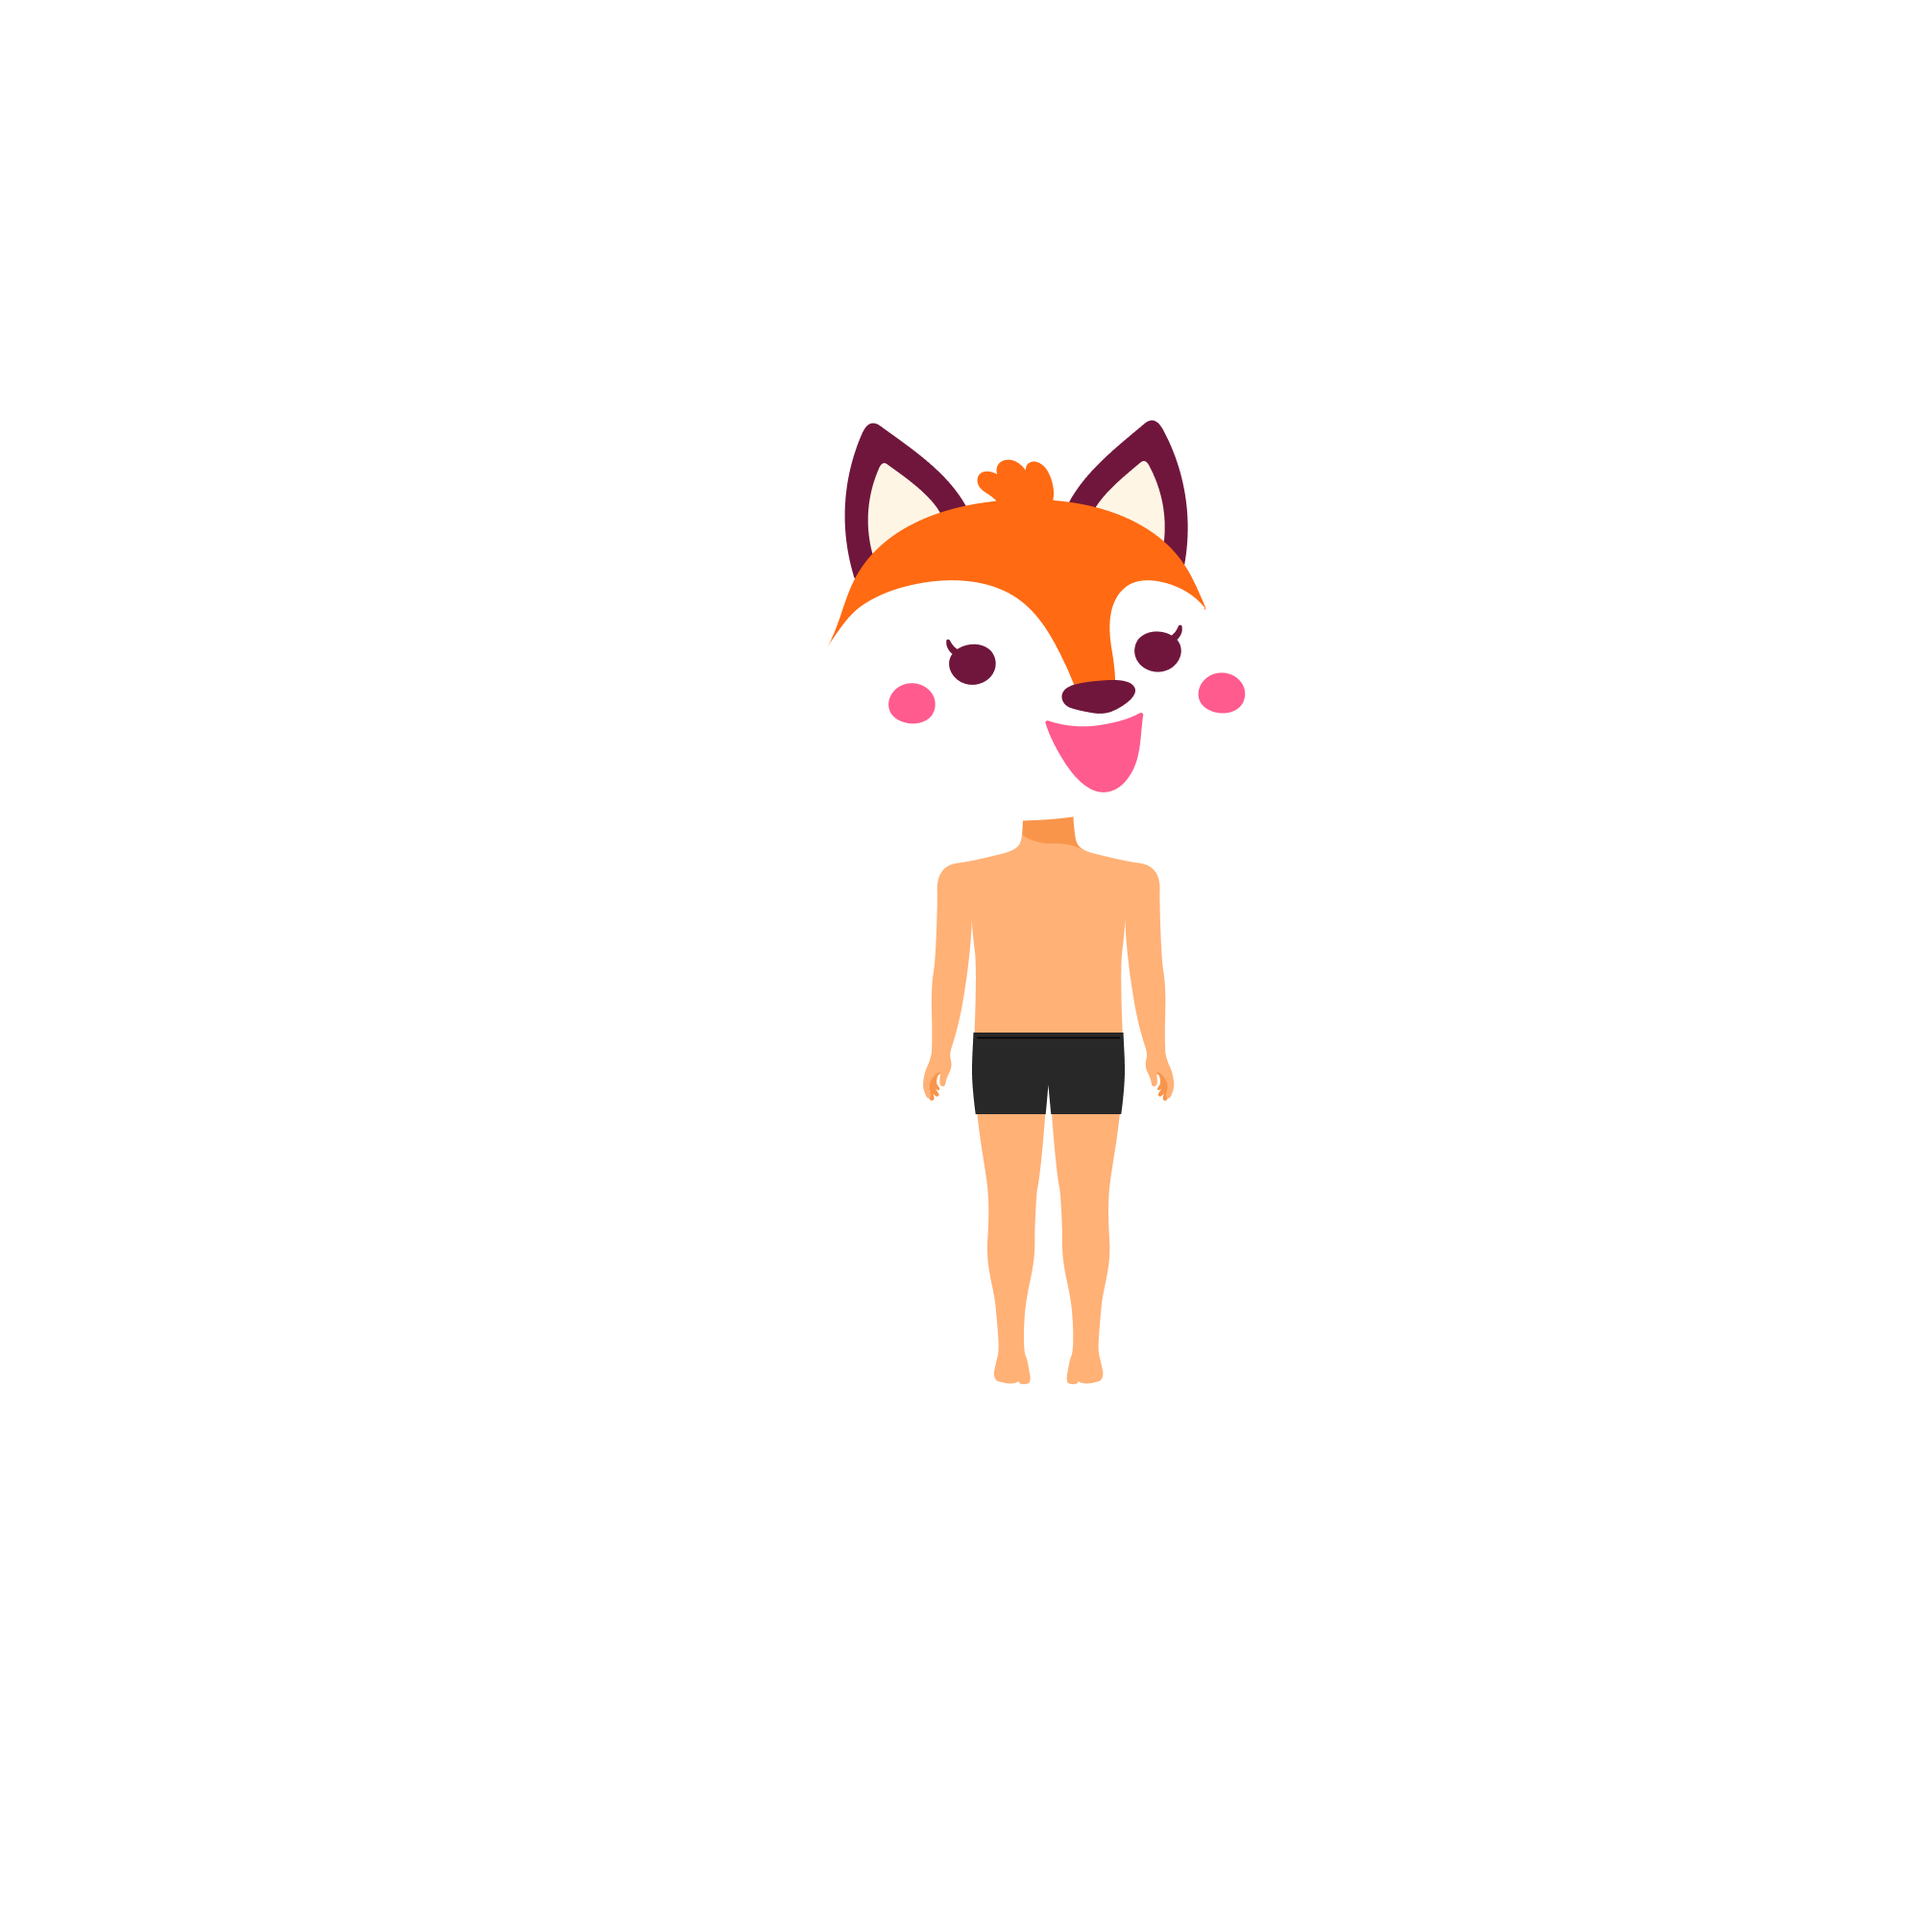
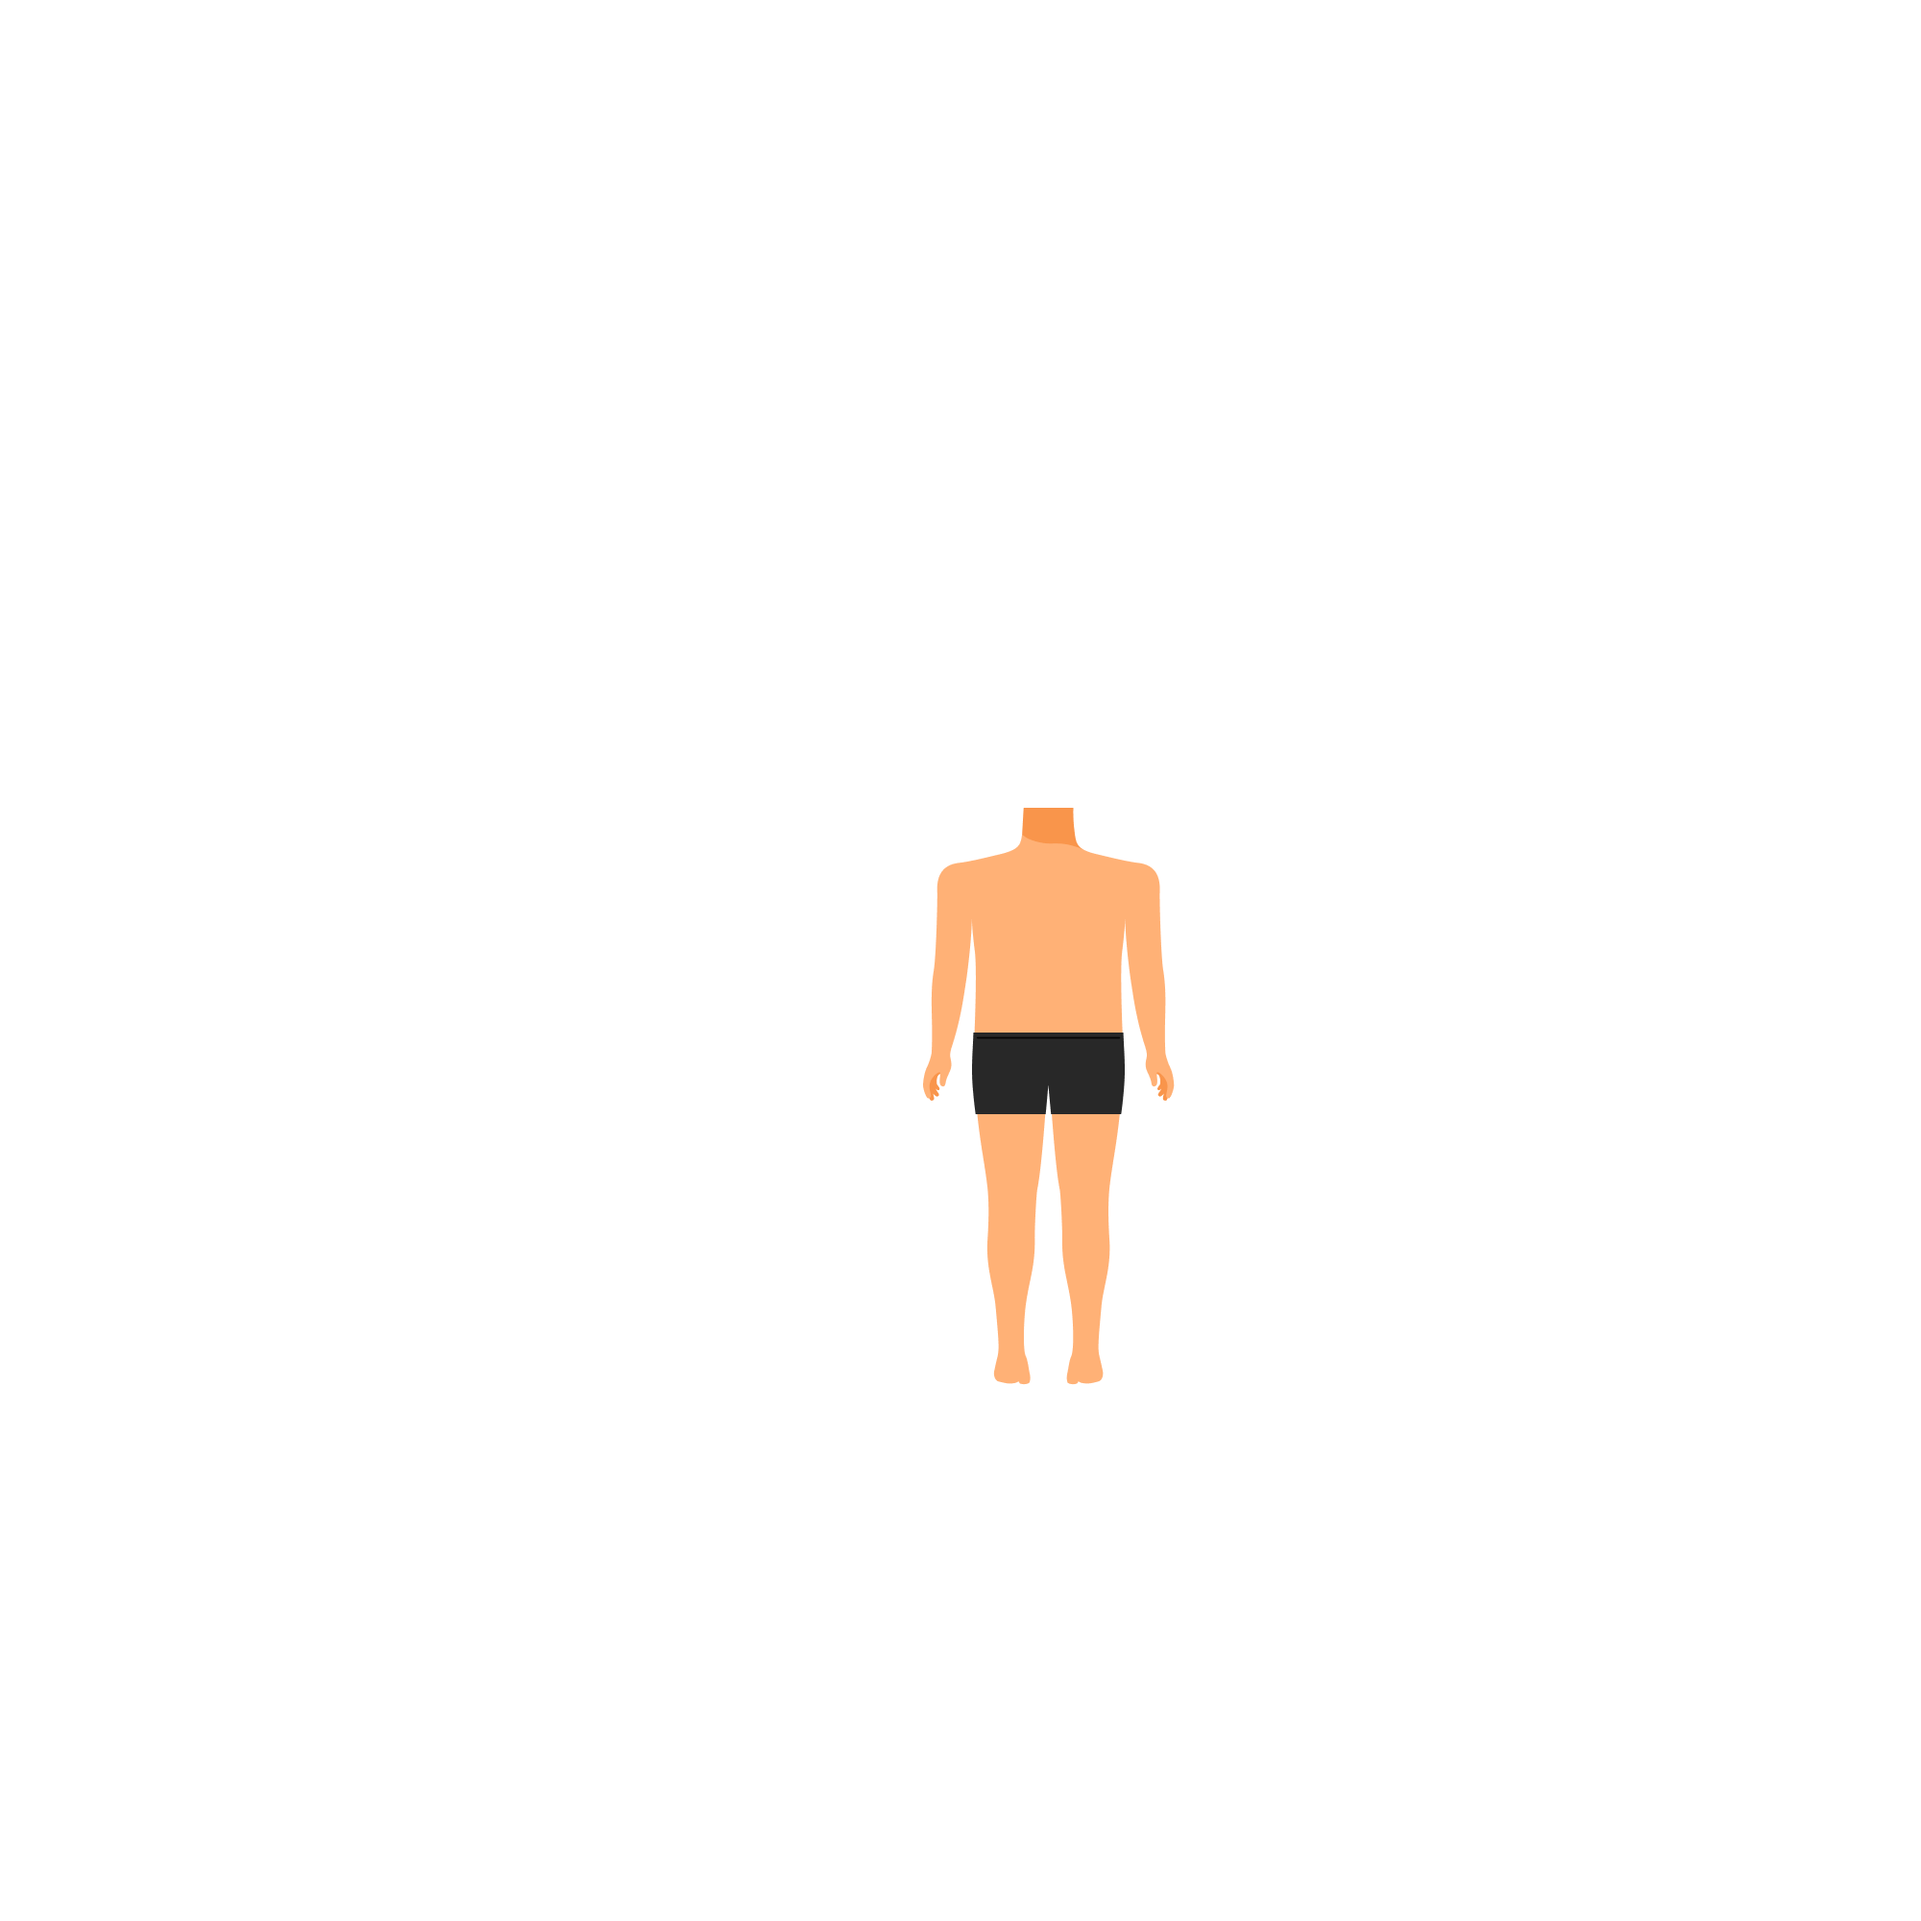
patch5

Changed region(s): [[0.434, 0.217, 0.651, 0.434]]

diff --git a/app/(tabs)/index.tsx b/app/(tabs)/index.tsx
@@ -1,11 +1,23 @@
-import { StyleSheet, Alert, Image, TouchableOpacity, Dimensions } from 'react-native';
+import { StyleSheet, Alert, Image, TouchableOpacity, Dimensions, DeviceEventEmitter } from 'react-native';
 import { useEffect, useState } from 'react';
 import { Text, View } from '@/components/Themed';
 import axios from 'axios';
+import AsyncStorage from '@react-native-async-storage/async-storage'; // Import AsyncStorage
 import * as Location from 'expo-location';
+import { useAppContext } from '@/app/AppContext'; // Import the context
+
 
 // Get screen dimensions
 const { width: screenWidth } = Dimensions.get('window');
+
+
+
+// Body Images
+import defaultFrame from '@/assets/images/fox/foxBody.png';
+import customBody1 from '@/assets/images/owl/owlBody.png';
+import customBody2 from '@/assets/images/bear/bearBody.png';
+import customBody3 from '@/assets/images/deer/deerBody.png';
+import body from '@/assets/images/fox/body.png'
 
 // Head
 import winterHat from '@/assets/images/fox/head/winterHat.png';
@@ -15,10 +27,10 @@ import sunGlasses from '@/assets/images/fox/head/sunGlasses.png';
 import blankHead from '@/assets/images/fox/head/blankHeadwear.png';
 
 // Background
-import defaultFrame from '@/assets/images/fox/body.png';
 import greenGround from '@/assets/images/fox/background/greenGround.png';
 import drowningWater from '@/assets/images/fox/background/drowningWater.png';
 import sunShine from '@/assets/images/fox/background/lilSunshine.png';
+import moon from '@/assets/images/fox/background/moon.png';
 import water from '@/assets/images/fox/background/water.png';
 import snow from '@/assets/images/fox/background/snow.png';
 import fallingSnow from '@/assets/images/fox/background/fallingSnow.png';
@@ -68,10 +80,35 @@ export default function TabOneScreen() {
     sunrise: null,
     sunset: null,
   });
+  const [selectedBody, setSelectedBody] = useState<string>('defaultFrame'); // Add selectedBody state
   const [location, setLocation] = useState<Location.LocationObjectCoords | null>(null);
   const [errorMsg, setErrorMsg] = useState<string | null>(null);
 
   const apiKey = process.env.EXPO_PUBLIC_OPENWEATHER_API_KEY;
+
+
+
+  // Load selected body image from AsyncStorage when component mounts
+  useEffect(() => {
+    const loadSettings = async () => {
+      const savedBody = await AsyncStorage.getItem('selectedBody');
+      if (savedBody) {
+        setSelectedBody(savedBody);
+      }
+    };
+    loadSettings();
+
+    // Listen for changes in body image
+    const listener = DeviceEventEmitter.addListener('bodyChanged', (newBody: string) => {
+      setSelectedBody(newBody); // Update the body image state
+    });
+
+    return () => {
+      listener.remove(); // Cleanup the listener when component unmounts
+    };
+  }, []);
+
+
 
   const fetchWeatherData = async () => {
     if (location && apiKey) {
@@ -152,9 +189,39 @@ export default function TabOneScreen() {
     return '#000000'; // Default text color
   };
   
+  // Function to dynamically select the body image
+  const getBodyImage = () => {
+    if (selectedBody === 'customBody1') {
+      return customBody1;
+    } else if (selectedBody === 'customBody2') {
+      return customBody2;
+    }else if (selectedBody === 'customBody3') {
+      return customBody3;
+    }
+    return defaultFrame;
+  };
+
+  
+  //get the correct sky
+  const getSky = () => {
+    const currentTime = getCurrentTime(); // Get current time in Unix format
+    const { sunrise, sunset } = weather;
+  
+    if (sunrise && sunset) {
+      if (currentTime < sunrise || currentTime > sunset) {
+        return moon; // Nighttime
+      } else {
+        return sunShine; // Daytime
+      }
+    }
+  
+    return sunShine; // Default to sun if no data
+  };
+
+
   // Function to choose the background based on the weather
   const getBackgroundImage = () => {
-    if (weather.main === 'Clear') return [sunShine];
+    if (weather.main === 'Clear') return [blankHead];
     if (weather.main === 'Clouds') return [clouds];
     if (weather.main === 'Mist') return [clouds];
     if (weather.main === 'Haze') return [clouds];
@@ -241,6 +308,8 @@ export default function TabOneScreen() {
         <>
           <Text style={[styles.title, { color: getTextColor() }]}>{weather.main}</Text>
           <>
+          <Image source={getSky()} style={styles.responsiveImage} />
+
           {/* Map through background images */}
           {getBackgroundImage().map((bg, index) => (
             <Image key={index} source={bg} style={styles.background} />
@@ -249,11 +318,8 @@ export default function TabOneScreen() {
             <Image key={index} source={bg} style={styles.ground} />
           ))}
 
-          <Image source={defaultFrame} style={styles.responsiveImage} /> 
-          {getHeadwear() && getHeadwear().map((headItem, index) => (
-            <Image key={index} source={headItem} style={styles.responsiveImage} />
-          ))}
-
+<Image source={require('@/assets/images/fox/body.png')} style={styles.responsiveImage} />
+          
           {getChestWear().map((chestItem, index) => (
             <Image key={index} source={chestItem} style={styles.responsiveImage} />
           ))}
@@ -261,7 +327,12 @@ export default function TabOneScreen() {
           {getAccessories().map((accessoryItem, index) => (
             <Image key={index} source={accessoryItem} style={styles.responsiveImage} />
           ))}
-
+          
+                {/* Render body image based on selectedBody */}
+                <Image source={getBodyImage()} style={styles.responsiveImage} />
+          {getHeadwear() && getHeadwear().map((headItem, index) => (
+            <Image key={index} source={headItem} style={styles.responsiveImage} />
+          ))}
           {getLeggings().map((legItem, index) => (
             <Image key={index} source={legItem} style={styles.responsiveImage} />
           ))}

diff --git a/app/(tabs)/two.tsx b/app/(tabs)/two.tsx
@@ -1,14 +1,54 @@
-import { StyleSheet } from 'react-native';
-
-import EditScreenInfo from '@/components/EditScreenInfo';
+import { StyleSheet, TouchableOpacity, DeviceEventEmitter } from 'react-native'; // Import DeviceEventEmitter
+import { useState, useEffect } from 'react';
 import { Text, View } from '@/components/Themed';
+import { Picker } from '@react-native-picker/picker';
+import AsyncStorage from '@react-native-async-storage/async-storage'; // Import AsyncStorage
 
 export default function TabTwoScreen() {
+  const [selectedBody, setSelectedBody] = useState<string>('defaultFrame');
+
+  // Load the saved body image from AsyncStorage when the component mounts
+  useEffect(() => {
+    const loadSettings = async () => {
+      const savedBody = await AsyncStorage.getItem('selectedBody');
+      if (savedBody) {
+        setSelectedBody(savedBody);
+      }
+    };
+
+    loadSettings();
+  }, []);
+
+  const handleSaveSettings = async () => {
+    await AsyncStorage.setItem('selectedBody', selectedBody); // Save the state to AsyncStorage
+
+    // Emit an event when settings are saved
+    DeviceEventEmitter.emit('bodyChanged', selectedBody);
+  };
+
   return (
     <View style={styles.container}>
-      <Text style={styles.title}>Tab Two</Text>
+      <Text style={styles.title}>Settings</Text>
       <View style={styles.separator} lightColor="#eee" darkColor="rgba(255,255,255,0.1)" />
-      <EditScreenInfo path="app/(tabs)/two.tsx" />
+
+      {/* Body image selection */}
+      <View style={styles.settingRow}>
+        <Text style={styles.settingLabel}>Choose your character</Text>
+        <Picker
+          selectedValue={selectedBody}
+          style={styles.picker}
+          onValueChange={(itemValue: string) => setSelectedBody(itemValue)}
+        >
+          <Picker.Item label="Fox" value="defaultFrame" />
+          <Picker.Item label="Owl" value="customBody1" />
+          <Picker.Item label="Bear" value="customBody2" />
+          <Picker.Item label="Deer" value="customBody3" />
+        </Picker>
+      </View>
+
+      <TouchableOpacity onPress={handleSaveSettings} style={styles.saveButton}>
+        <Text style={styles.saveButtonText}>Save Settings</Text>
+      </TouchableOpacity>
     </View>
   );
 }
@@ -18,14 +58,46 @@ const styles = StyleSheet.create({
     flex: 1,
     alignItems: 'center',
     justifyContent: 'center',
+    paddingTop: 100,
+    backgroundColor: '#09011f',
   },
   title: {
-    fontSize: 20,
+    fontSize: 30,
     fontWeight: 'bold',
+    color: '#D69DF1',
+    marginBottom: 20,
   },
   separator: {
-    marginVertical: 30,
+    marginVertical: 20,
     height: 1,
     width: '80%',
+  },
+  settingRow: {
+    flexDirection: 'row',
+    alignItems: 'center',
+    justifyContent: 'space-between',
+    width: '80%',
+    marginVertical: 10,
+  },
+  settingLabel: {
+    fontSize: 20,
+    color: '#EBCEF8',
+  },
+  picker: {
+    height: 50,
+    width: 150,
+    color: '#EBCEF8',
+  },
+  saveButton: {
+    marginTop: 40,
+    paddingVertical: 10,
+    paddingHorizontal: 20,
+    backgroundColor: '#D69DF1',
+    borderRadius: 5,
+  },
+  saveButtonText: {
+    color: 'black',
+    fontWeight: 'bold',
+    fontSize: 18,
   },
 });

diff --git a/app/AppContext.tsx b/app/AppContext.tsx
@@ -1,0 +1,20 @@
+import React, { createContext, useState, useContext } from 'react';
+
+// Create a context for the app's global state
+const AppContext = createContext<any>(null);
+
+// Create a provider component
+export const AppProvider = ({ children }: { children: React.ReactNode }) => {
+  const [selectedValue, setSelectedValue] = useState<number>(1);
+
+  return (
+    <AppContext.Provider value={{ selectedValue, setSelectedValue }}>
+      {children}
+    </AppContext.Provider>
+  );
+};
+
+// Custom hook to use the AppContext
+export const useAppContext = () => {
+  return useContext(AppContext);
+};
